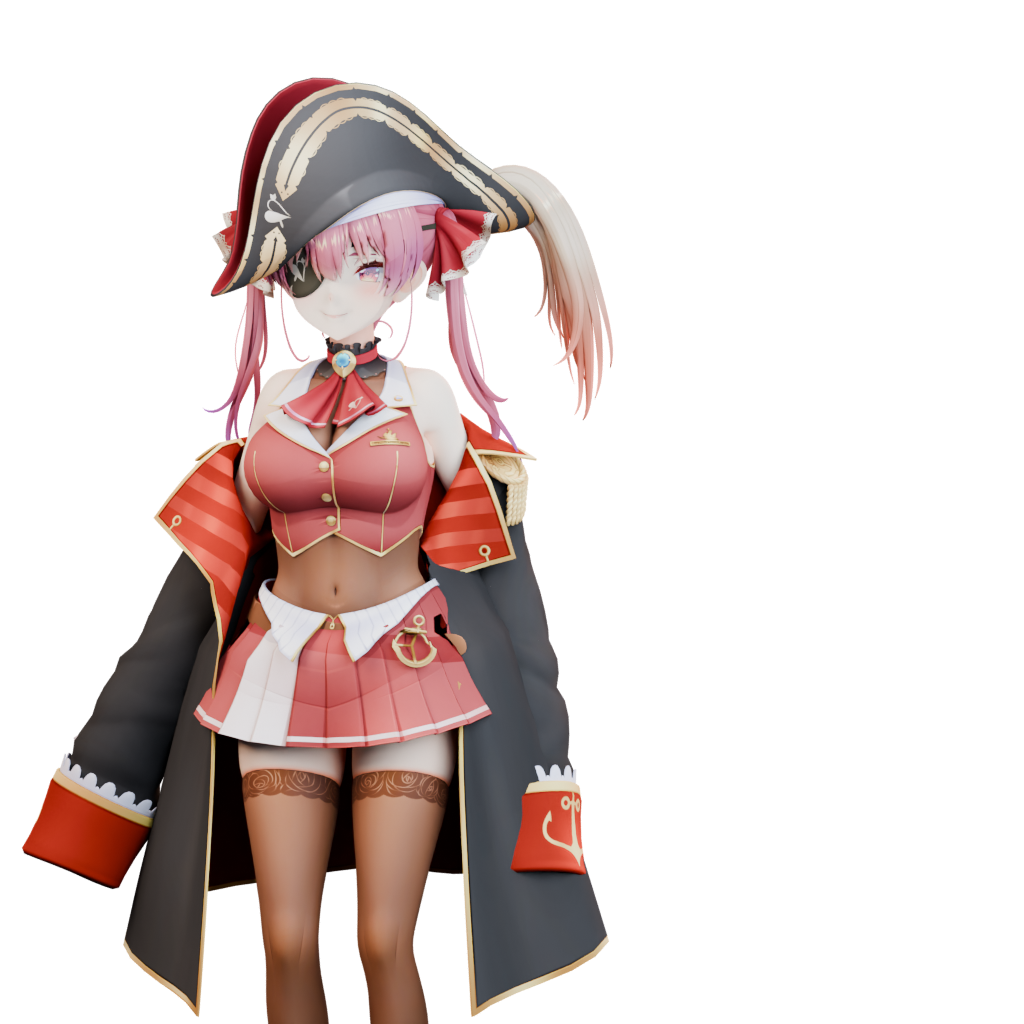
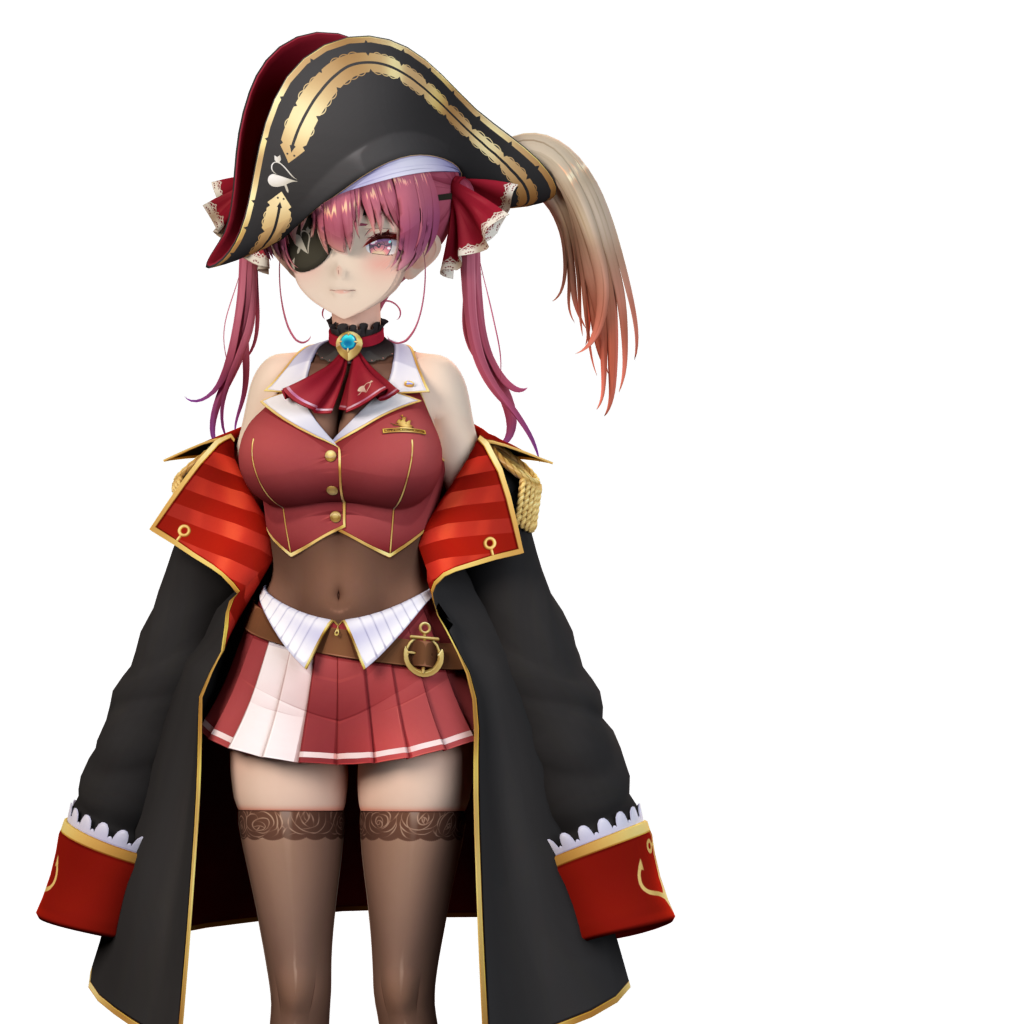
s

diff --git a/TALK_IMAGE_GENERATION.md b/TALK_IMAGE_GENERATION.md
@@ -1,127 +1,187 @@
-# TALK_IMAGE_GENERATION.md
+# 会話パート用立ち絵の生成手順
 
-MMDモデル(宝鐘マリンV2)からゲーム用「立ち絵(腿から上)」画像を生成するための作業メモ。
-他のLLMがこのタスクを引き継ぐ場合、このメモで再現できるようにする。
+この文書は、会話パートで使用するキャラクター立ち絵を同じ品質・構図で再生成するための記録です。
 
-## アセット
+## 基本方針
 
-- **Blenderファイル**: `C:\Users\bibindon\Nextcloud\RedFortressAsset\marine\blender5.1.2\marine.blend`
-- **Blender実行ファイル**: `C:\Program Files\Blender Foundation\Blender 5.1\blender.exe` (Blender 5.1.2)
-- 撮影テスト済み、Aポーズの腿から上(正面/背面)をレンダリング可能。
+- Blenderは `C:\Program Files\Blender Foundation\Blender 5.1\blender.exe` を使用する。
+- 本番出力は1024×1024、PNG RGBA、背景透過、Cyclesで行う。
+- キャラクターは画面左側へ置ける余白を確保し、帽子や頭を上端からはみ出させない。
+- 下端はおおむね膝付近で切れる大きさにする。
+- 腕は横に伸ばさず、自然に下ろす。
+- 表情差分間ではカメラ、照明、ポーズを変更しない。表情モーフだけを切り替える。
+- ゲーム側の基準解像度は1600×900であり、立ち絵の配置と拡大縮小はスライドショー側で行う。画像側でゲーム画面の解像度を補正しない。
 
-## モデル構成(重要)
+## 出力先
 
-- アーマチュア: `宝鐘マリンV2_arm`(bones=549、MMD標準の骨名: センター/上半身/頭/首/肩.R/腕.R など。「上腕」という名前の骨は存在せず、肩→腕の構成)
-- メッシュは3つ(すべてこのアーマチュアでスキニング):
-  | オブジェクト名 | 頂点数 | hide_render |
-  |---|---|
-  | `宝鐘マリンV2_mesh` | 78511 | **True(描画されない)** |
-  | `宝鐘マリンV2_mesh_before_face_uniform_normals` | 78511 | **True(描画されない)** |
-  | `宝鐘マリンV2_mesh_decimate50` | 44980 | **False(これが画面に出る本体)** |
-- 形状キー: 2、コンストレイント: 22(脚IK・MMD用TRANSFORM/COPY_TRANSFORMS・目のダミー。腕のDAMPED_TRACKは影響0)
-- 体位: 身長1.69m、足元 z=0、**正面は -Y 方向**、キャラから見た右腕は -X 側(正面レンダーで画像左)。
-- スケルトンのボーン名は日本語。コンソールで文字化けする(後述)。
+```text
+C:\Users\bibindon\source\repos\bibindon\RedFortress\RedFortress2\MultiPassRendering\res\2D_Image
+```
 
-## 重大な罠: アニメーション「slash」が割り当て済み
+既存画像を上書きする前に、必要に応じて `tmp` 以下へバックアップする。
 
-- この.blendにはアクションが3つ入っている: `slash`(5490本のfc)、`slash2`(5491)、`slash2_source`(543)。
-- **アーマチュアに `slash` がアクティブアクションとして割り当て済み**。このため、Blenderを開いてポーズリセット(matrix_basis=Identity)しても、毎フレームのdepsgraph評価でアニメーションがポーズを上書きする。
-- 初期表示の「右腕を上げて赤い筒を持ったポーズ」は slash アニメの再生結果(攻撃モーション)。bind poseの問題ではない。
-- **Aポーズに戻すには**: `arm_obj.animation_data_clear()` でアクションを外してからポーズリセット(さらに必要なら全コンストレイントを mute)。
-- ※ 背景CLI実行では変更はメモリ内のみ。Aポーズの状態を保存するなら `bpy.ops.wm.save_as_mainfile` で**別名保存**する(アセット原本を上書きしない)。
+## 宝鐘マリン
 
-## 罠2: 画像をopencodeのチャットに表示できない
+### 入力モデル
 
-- opencodeのTUIは画像をインライン表示できない。アシスタントには添付として渡るがユーザーには表示されない。
-- 大きいPNG(1MB超)どころか小さいJPEGでも表示されないので、**一律「保存先のパスを案内して、explorer等で開いてもらう」**方針。
+```text
+C:\Users\bibindon\Nextcloud\RedFortressAsset\marine\blender5.1.2\marine.blend
+```
 
-## 罠3: コンソール出力の文字化け
+### 生成スクリプト
 
-- Blenderの標準出力はShift-JIS等で乱れるため、日本語を含むデータを扱うときは必ず `json.dumps(...)`(ensure_asciiデフォルトTrue → \uXXXX エスケープ)で出力し、PowerShell側で `[regex]::Match($text, '(?s)RESULT_JSON_START\s*\r?\n(.*?)\r?\nRESULT_JSON_END')` を取り出して `ConvertFrom-Json` でパースする。
+```text
+C:\Users\bibindon\source\repos\bibindon\RedFortress\tools\RenderMarineColorCorrected.py
+```
 
-## 罠4: MCP経由ではタイムアウト
+このスクリプトには、次の確定済み調整が含まれている。
 
-- Blender MCP(ローカル/CLIツール)はモデル読み込みが重くてタイムアウトする。**PowerShellから直接**:
+- 肌テクスチャへ暖色補正を適用する。
+- 瞳の彩度と明度を抑える。
+- 保存されている `slash` アニメーションを解除し、腕を下ろす。
+- 表情モーフを持つ高品質メッシュ `宝鐘マリンV2_mesh` を表示し、軽量メッシュを非表示にする。
+- Standard、Medium Low Contrast、露出 +0.10を使用する。
+- キー190、フィル100、リム115、ワールド強度0.20の照明を使用する。
+- 正投影カメラのスケールは1.18、シフトはX=0.16、Y=0.07とする。
+
+### モデル固有の注意点
+
+- 元の `.blend` には `slash`、`slash2`、`slash2_source` のアクションがあり、`slash` がアーマチュアへ割り当てられている。単にポーズをリセットしただけでは、アニメーション評価によって腕上げポーズへ戻る。
+- そのため、必ず `animation_data_clear()` の後で全ポーズボーンをリセットする。生成スクリプトでは実施済み。
+- 表情モーフがあるのは高品質メッシュ `宝鐘マリンV2_mesh`。`宝鐘マリンV2_mesh_decimate50` には表情モーフがないため、表情差分の生成には使用しない。
+- 原本の `marine.blend` は上書きしない。調整済みBlenderファイルを保存する場合は必ず別名にする。
+
+### 本番生成コマンド
+
+リポジトリ直下でPowerShellから実行する。
 
 ```powershell
-& "C:\Program Files\Blender Foundation\Blender 5.1\blender.exe" --background "<blend>" --python "<script>" 2>&1 | Out-File out.txt -Encoding utf8
+$blender = 'C:\Program Files\Blender Foundation\Blender 5.1\blender.exe'
+$model = 'C:\Users\bibindon\Nextcloud\RedFortressAsset\marine\blender5.1.2\marine.blend'
+$script = (Resolve-Path 'tools\RenderMarineColorCorrected.py').Path
+$output = (Resolve-Path 'RedFortress2\MultiPassRendering\res\2D_Image').Path
+& $blender --background $model --python $script -- --output-dir $output --resolution 1024 --samples 48 --engine CYCLES --render-game-expressions
 ```
 
-- タイムアウトは長めに(600000ms程度)。
-- Blender 5.1のエンジン名は `BLENDER_EEVEE`(NOT `BLENDER_EEVEE_NEXT`)。`show_render`ではなく`hide_render`。
+生成される表情は通常、笑顔、心配、決意、真剣、驚きの6種類。
 
-## 撮影設定(テスト済み・ベースライン)
+## 戌神ころね
 
-- エンジン: EEVEE。ワールド背景はファイル既定が暗いので `Background` ノードを (0.9,0.9,0.9)×強度1.0 に変更(明るいグレー)。
-- カメラ: 既存の `Camera`(50mmレンズ)を流用、`to_track_quat('-Z','Y')` で注視。
-  - 腿から上フレーミング: 位置 `(0, ±2.3, 1.25)`、注視点 `(0,0,1.25)` → 座標z約0.70〜1.80が縦範囲(大腿上〜帽子頭頂)。
-  - 正面 = -Y側から撮影(y=-2.3)、背面 = +Y側。
-- ライト: 既存の `Light`(ポイントライト)を camera側+3m高 に移動し `energy=3.0`。
-- 解像度: 1000×1200。
-- 透過PNGにしたい場合: `scene.render.film_transparent = True` + `color_mode='RGBA'`。
+### 入力モデル
 
-## 再現スクリプト(コピペで使える)
-
-```python
-import bpy, json
-from mathutils import Vector, Matrix
-
-scene = bpy.context.scene
-arm_obj = None
-for obj in bpy.data.objects:
-    if obj.type == 'ARMATURE':
-        arm_obj = obj
-        break
-
-# 1. slashアニメを外してAポーズへ
-if arm_obj.animation_data is not None:
-    arm_obj.animation_data_clear()
-for pb in arm_obj.pose.bones:
-    pb.matrix_basis = Matrix.Identity(4)
-    for c in pb.constraints:
-        c.mute = True          # 脚IKを切る(素直なAポーズになる)
-bpy.context.view_layer.update()
-
-# 2. 背景を明るいグレーに
-if scene.world is None:
-    scene.world = bpy.data.worlds.new("World")
-scene.world.use_nodes = True
-bg = scene.world.node_tree.nodes.get("Background")
-if bg is None:
-    bg = scene.world.node_tree.nodes.new("ShaderNodeBackground")
-    out = scene.world.node_tree.nodes.get("World Output")
-    scene.world.node_tree.links.new(bg.outputs[0], out.inputs[0])
-bg.inputs[0].default_value = (0.9, 0.9, 0.9, 1.0)
-bg.inputs[1].default_value = 1.0
-
-# 3. カメラ・ライト設定
-cam_obj = bpy.data.objects.get("Camera")
-light_obj = bpy.data.objects.get("Light")
-target = Vector((0.0, 0.0, 1.25))
-d = 2.3
-scene.render.resolution_x = 1000
-scene.render.resolution_y = 1200
-scene.render.resolution_percentage = 100
-
-for side in ["front", "back"]:
-    y = -d if side == "front" else d
-    cam_obj.location = Vector((0.0, y, 1.25))
-    cam_obj.rotation_euler = (target - cam_obj.location).to_track_quat('-Z', 'Y').to_euler()
-    light_obj.location = cam_obj.location + Vector((1.5, 0.0, 2.0))
-    light_obj.rotation_euler = (target - light_obj.location).to_track_quat('-Z', 'Y').to_euler()
-    scene.render.filepath = r"C:/Users/bibindon/AppData/Local/Temp/opencode/marine_rnd_%s.png" % side
-    bpy.ops.render.render(write_still=True)
+```text
+C:\Users\bibindon\Nextcloud\RedFortressAsset\Korone\InugamiKorone\InugamiKorone\Korone.blend
 ```
 
-## 実績
+### 生成スクリプト
 
-- 2026-08-29: Aポーズ正面/背面の腿から上レンダリングに成功。
-  - 出力例: `C:\Users\bibindon\AppData\Local\Temp\opencode\marine_clean_front.png`, `marine_clean_back.png`
-  - 正面の見た目は良好。背面は後頭部の髪メッシュがピンクの塊に見える(モデル自体の問題)。
-- 由来: 初回レンダーは「slash」アニメの腕上げポーズだった → 上記手順で解消。
+```text
+C:\Users\bibindon\source\repos\bibindon\RedFortress\tools\RenderKoroneColorCorrected.py
+```
 
-## 次の候補アクション
+このスクリプトには、次の確定済み調整が含まれている。
 
-- 保存先アセットフォルダへの透過PNG書き出し(例: `RedFortressAsset\marine\stand.png`)
-- `slash`/`slash2` のフレームから「立ち絵用のカッコいいポーズ」の選定
-- ゲーム側(Render::DrawImage)へ載せ替え
+- 顔、線なしの顔、肌へ暖色補正を適用する。
+- 赤すぎた瞳の彩度と明度を抑える。
+- 両腕と肘を調整して腕を下ろす。
+- Standard、Medium Low Contrast、露出 -0.25を使用する。
+- キー180、フィル75、リム100、ワールド強度0.18の照明を使用する。
+- 正投影カメラのスケールは1.35、Xシフトは0.18とする。
+
+### 本番生成コマンド
+
+```powershell
+$blender = 'C:\Program Files\Blender Foundation\Blender 5.1\blender.exe'
+$model = 'C:\Users\bibindon\Nextcloud\RedFortressAsset\Korone\InugamiKorone\InugamiKorone\Korone.blend'
+$script = (Resolve-Path 'tools\RenderKoroneColorCorrected.py').Path
+$output = (Resolve-Path 'RedFortress2\MultiPassRendering\res\2D_Image').Path
+& $blender --background $model --python $script -- --output-dir $output --resolution 1024 --samples 48 --engine CYCLES --render-game-expressions
+```
+
+生成される表情は通常、笑顔、謎めいた表情の3種類。
+
+## 天音かなた
+
+### 入力モデル
+
+立ち絵に使用したのは、ボス用の `kanata_boss.blend` ではなく、VRMを直接インポートした次のファイル。
+
+```text
+C:\Users\bibindon\Nextcloud\RedFortressAsset\KanataPrototype\kanata_imported.blend
+```
+
+### 生成スクリプト
+
+```text
+C:\Users\bibindon\source\repos\bibindon\RedFortress\tools\render_kanata_portrait_test.py
+```
+
+このスクリプトは次の処理を行う。
+
+- `Face` オブジェクトのVRM表情シェイプキーを使用する。
+- 元のダウンロード先を参照している外部テクスチャが消えていても、同じフォルダの `textures\kanata_00.png` から `kanata_28.png` をマテリアル順に再接続する。
+- 肌マテリアルをCycles向けに変換し、暖色補正を加える。
+- マテリアルの自己発光を無効化し、実ライトによる陰影を出す。
+- 存在しない法線マップの接続を解除し、顔や衣装に異常な模様が出るのを防ぐ。
+- 腕を下ろす。
+- `KanataRigidMesh` が存在する場合は非表示にする。
+- Standard、Medium Low Contrast、露出 -0.25を使用し、白い肌が灰色になるのを防ぐ。
+- 顔の肌へ `(1.0, 0.88, 0.84)`、身体の肌を含むマテリアルへ `(1.0, 0.86, 0.82)` の暖色乗算を適用する。
+- キー180、フィル75、リム100、ワールド強度0.18を使用する。
+- 正投影カメラのスケールは1.10、Yシフトは0.07とする。
+
+### 本番生成コマンド
+
+```powershell
+$blender = 'C:\Program Files\Blender Foundation\Blender 5.1\blender.exe'
+$model = 'C:\Users\bibindon\Nextcloud\RedFortressAsset\KanataPrototype\kanata_imported.blend'
+$script = (Resolve-Path 'tools\render_kanata_portrait_test.py').Path
+$output = (Resolve-Path 'RedFortress2\MultiPassRendering\res\2D_Image').Path
+$env:KANATA_TEST_OUTPUT = Join-Path $output 'novel_chr_kanata_{expression}_transparent.png'
+$env:KANATA_CYCLES_SAMPLES = '48'
+$env:KANATA_EXPRESSION = 'all'
+& $blender --background $model --python $script
+Remove-Item Env:KANATA_TEST_OUTPUT
+Remove-Item Env:KANATA_CYCLES_SAMPLES
+Remove-Item Env:KANATA_EXPRESSION
+```
+
+生成される表情は通常、笑顔、心配、決意の4種類。
+
+## 本番前の高速確認
+
+マリンところねは、Cycles本番の前に次のように512×512、Eevee、8サンプルで全表情を確認できる。出力先にはゲーム用フォルダではなく `tmp` を指定する。
+
+```powershell
+& $blender --background $model --python $script -- --output-dir $previewOutput --resolution 512 --samples 8 --engine BLENDER_EEVEE --render-game-expressions
+```
+
+Blender 5.1でEeveeを指定するときの名前は `BLENDER_EEVEE`。`BLENDER_EEVEE_NEXT` は使用できない。重いモデルは連携機能経由だとタイムアウトする場合があるため、上記のようにPowerShellからBlenderを直接起動する。
+
+確認する項目は次の通り。
+
+1. 背景が透明である。
+2. 画像が1024×1024である。
+3. 肌が灰色または青色になっていない。
+4. 瞳だけが不自然に高彩度になっていない。
+5. 帽子、頭、髪が上端から切れていない。
+6. 腕が横へ伸びていない。
+7. 表情ごとの位置と大きさが完全に揃っている。
+8. 表情の違いがゲーム画面上の大きさでも判別できる。
+
+## ゲームへの反映
+
+立ち絵を更新した後は、Debug x64でビルドする。ビルド後処理により `res` が実行用フォルダへコピーされる。
+
+```powershell
+$cmdLine = 'set RF_BUILD_PATH=%Path%& set PATH=& set Path=!RF_BUILD_PATH!& "C:\Program Files\Microsoft Visual Studio\18\Community\MSBuild\Current\Bin\MSBuild.exe" RedFortress2\MultiPassRendering.sln /p:Configuration=Debug /p:Platform=x64 /m:1 /v:minimal'
+& cmd.exe /d /v:on /c $cmdLine
+```
+
+実行用コピー先は次の通り。
+
+```text
+C:\Users\bibindon\source\repos\bibindon\RedFortress\RedFortress2\x64\Debug\res\2D_Image
+```
+
+ソース側と実行用フォルダ側で、更新したPNGの内容が一致していることも確認する。
